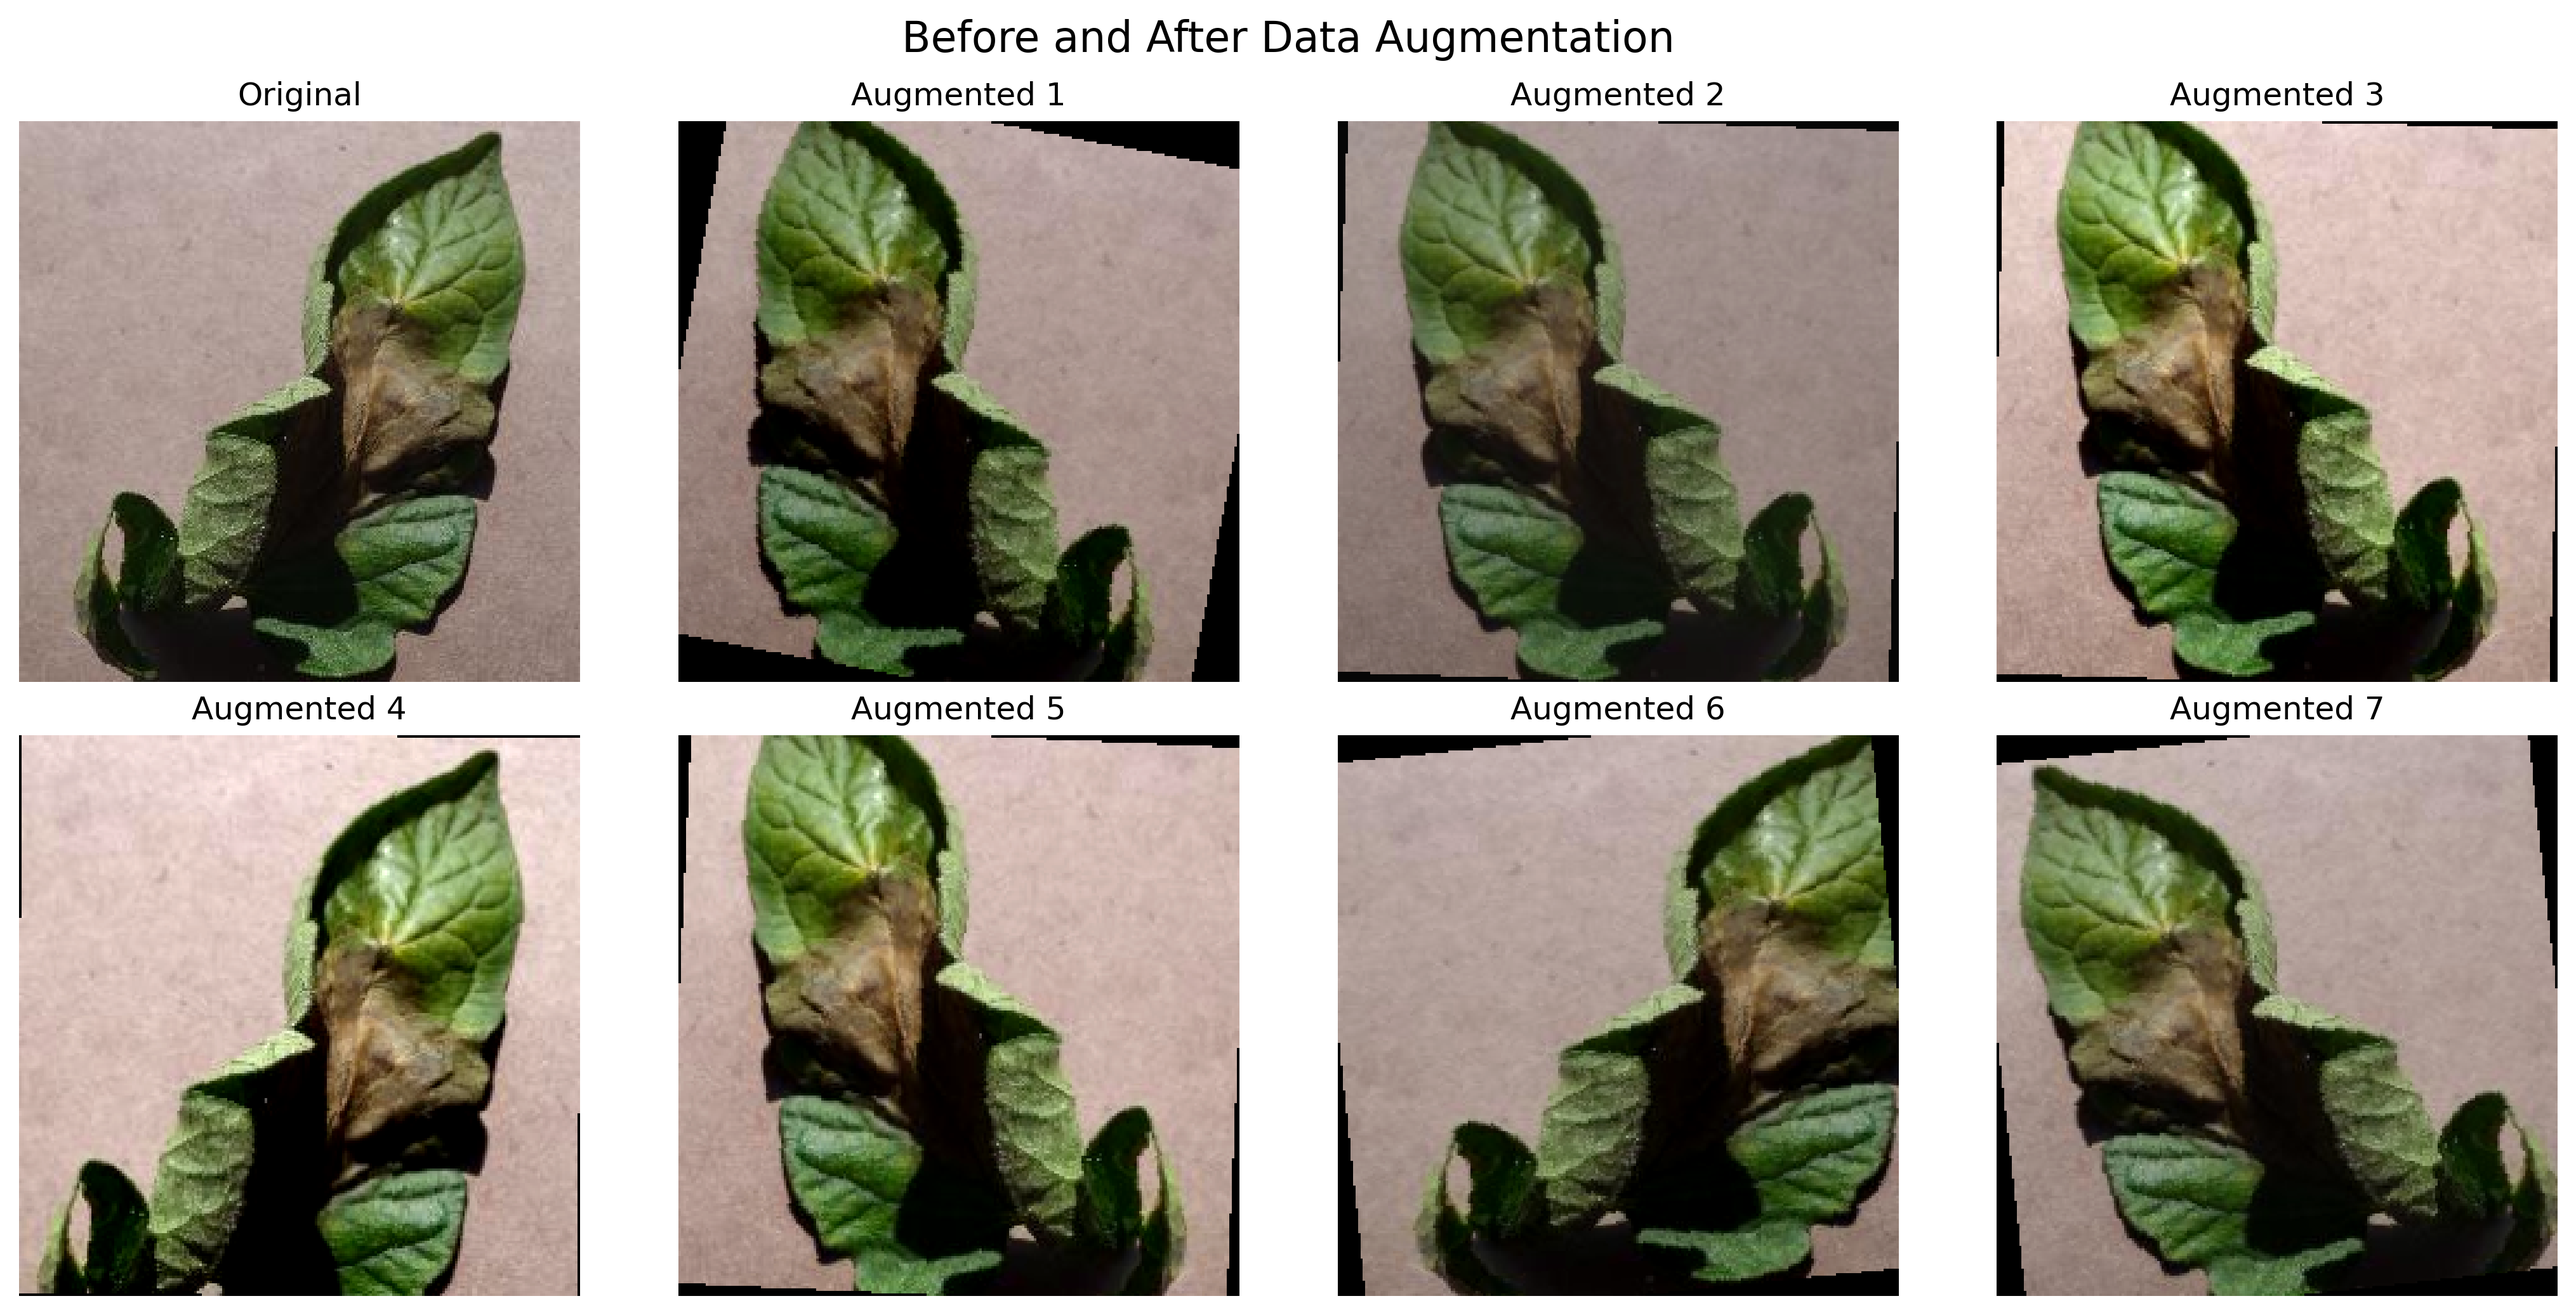
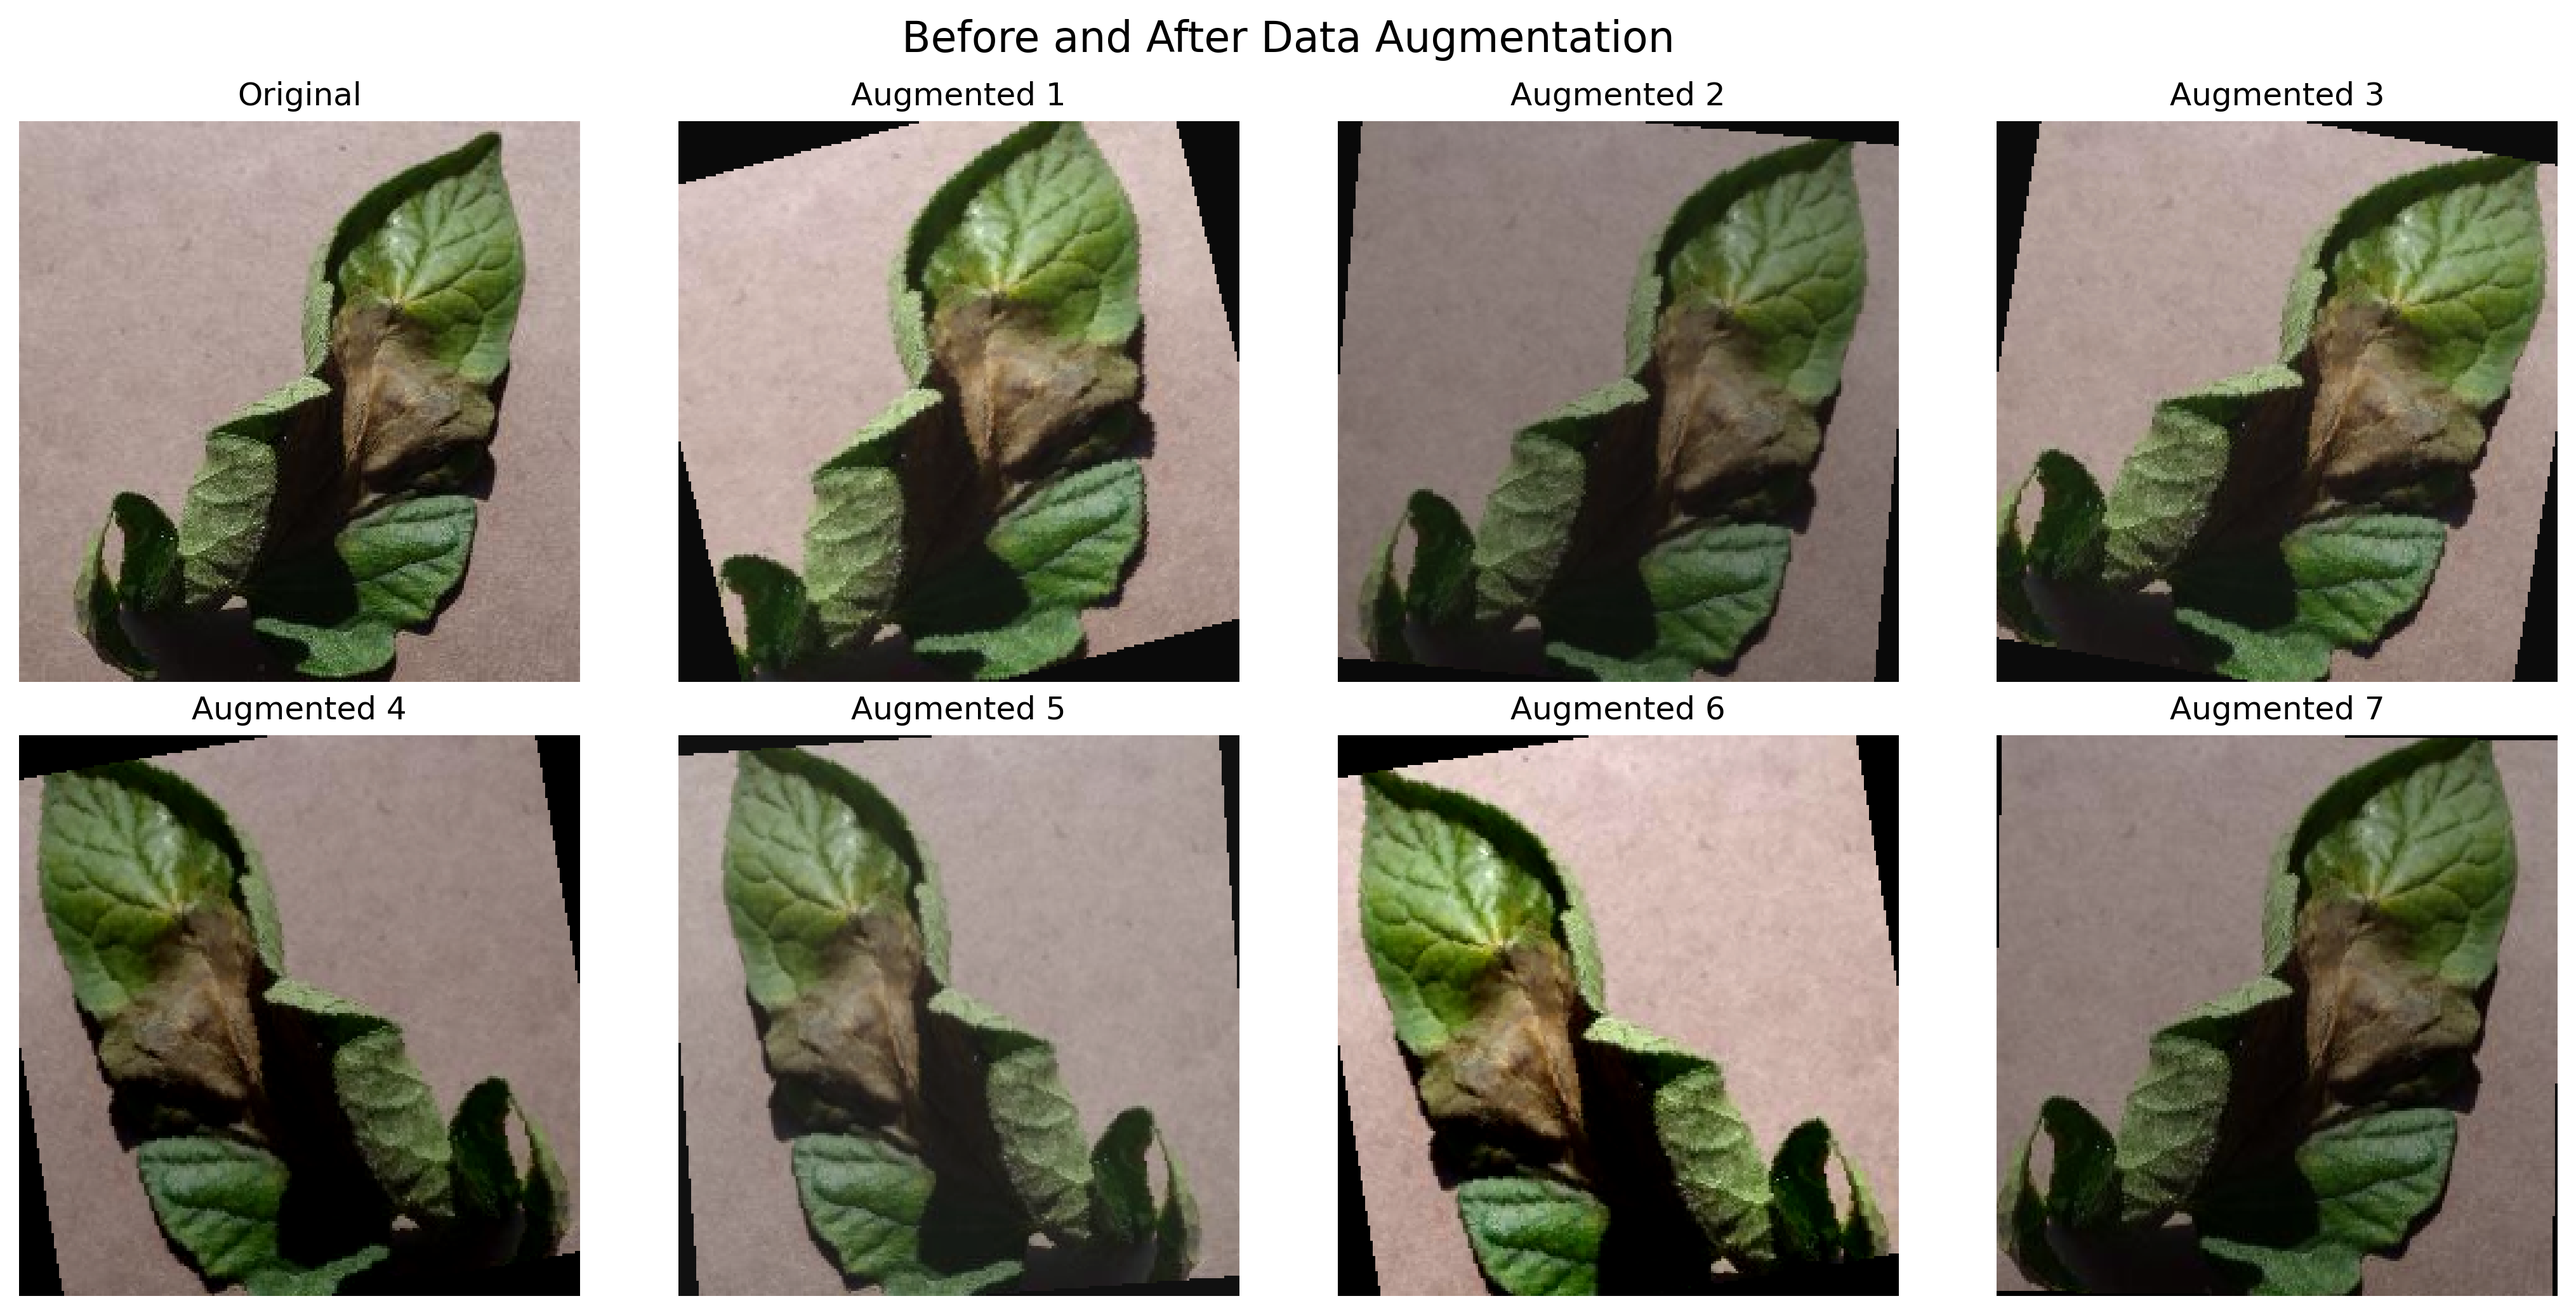
phase 2

diff --git a/src/evaluate.py b/src/evaluate.py
@@ -1,0 +1,139 @@
+import os
+import torch
+import matplotlib.pyplot as plt
+
+from torchvision import models
+from sklearn.metrics import (
+    confusion_matrix,
+    classification_report,
+    ConfusionMatrixDisplay
+)
+
+from dataset import val_loader, CLASS_NAMES
+
+# Device
+device = torch.device(
+    "cuda" if torch.cuda.is_available() else "cpu"
+)
+
+# Load ResNet18 architecture
+model = models.resnet18(weights=None)
+
+# Replace final layer
+model.fc = torch.nn.Linear(
+    model.fc.in_features,
+    len(CLASS_NAMES)
+)
+
+# Load best saved weights
+model.load_state_dict(
+    torch.load("models/resnet18_best.pth", map_location=device)
+)
+
+model = model.to(device)
+model.eval()
+
+all_preds = []
+all_labels = []
+
+# Create folders
+os.makedirs("reports", exist_ok=True)
+os.makedirs("reports/errors", exist_ok=True)
+
+error_count = 0
+
+with torch.no_grad():
+
+    for images, labels in val_loader:
+
+        images = images.to(device)
+        labels = labels.to(device)
+
+        outputs = model(images)
+
+        _, preds = torch.max(outputs, 1)
+
+        all_preds.extend(preds.cpu().numpy())
+        all_labels.extend(labels.cpu().numpy())
+
+        # Save misclassified samples
+        for i in range(len(images)):
+
+            if preds[i].item() != labels[i].item():
+
+                if error_count < 10:
+
+                    img = images[i].cpu()
+
+                    # Denormalize
+                    mean = torch.tensor(
+                        [0.485, 0.456, 0.406]
+                    ).view(3, 1, 1)
+
+                    std = torch.tensor(
+                        [0.229, 0.224, 0.225]
+                    ).view(3, 1, 1)
+
+                    img = img * std + mean
+                    img = img.permute(1, 2, 0).numpy()
+
+                    plt.figure(figsize=(4, 4))
+                    plt.imshow(img)
+                    plt.axis("off")
+
+                    true_label = CLASS_NAMES[
+                        labels[i].item()
+                    ]
+
+                    pred_label = CLASS_NAMES[
+                        preds[i].item()
+                    ]
+
+                    plt.title(
+                        f"True: {true_label}\nPred: {pred_label}"
+                    )
+
+                    plt.savefig(
+                        f"reports/errors/error_{error_count}.png",
+                        bbox_inches="tight"
+                    )
+
+                    plt.close()
+
+                    error_count += 1
+
+# Confusion Matrix
+cm = confusion_matrix(
+    all_labels,
+    all_preds
+)
+
+disp = ConfusionMatrixDisplay(
+    confusion_matrix=cm,
+    display_labels=CLASS_NAMES
+)
+
+fig, ax = plt.subplots(figsize=(8, 6))
+disp.plot(ax=ax, cmap="Blues")
+
+plt.savefig(
+    "reports/confusion_matrix.png",
+    bbox_inches="tight"
+)
+
+plt.close()
+
+# Classification Report
+report = classification_report(
+    all_labels,
+    all_preds,
+    target_names=CLASS_NAMES
+)
+
+print(report)
+
+with open(
+    "reports/classification_report.txt",
+    "w"
+) as f:
+    f.write(report)

diff --git a/src/predict.py b/src/predict.py
@@ -1,0 +1,82 @@
+
+
+import argparse
+import json
+import torch
+from PIL import Image
+from torchvision import models
+
+from src.aug_transform import val_transform
+
+
+def load_model(model_path, num_classes):
+
+    model = models.resnet18(weights=None)
+
+    model.fc = torch.nn.Linear(
+        model.fc.in_features,
+        num_classes
+    )
+
+    model.load_state_dict(
+        torch.load(
+            model_path,
+            map_location="cpu"
+        )
+    )
+
+    model.eval()
+
+    return model
+
+
+def predict(image_path, model, class_names):
+
+    image = Image.open(image_path).convert("RGB")
+
+    image = val_transform(image)
+
+    image = image.unsqueeze(0)
+
+    with torch.no_grad():
+
+        output = model(image)
+
+        probs = torch.softmax(output, dim=1)
+
+    confidence, idx = probs.max(1)
+
+    return (
+        class_names[idx.item()],
+        confidence.item()
+    )
+
+
+if __name__ == "__main__":
+
+    parser = argparse.ArgumentParser()
+
+    parser.add_argument(
+        "--image",
+        required=True,
+        help="Path to image"
+    )
+
+    args = parser.parse_args()
+
+    with open("notebooks/class_names.json") as f:
+        class_names = json.load(f)
+
+    model = load_model(
+        "models/resnet18_best.pth",
+        len(class_names)
+    )
+
+    label, confidence = predict(
+        args.image,
+        model,
+        class_names
+    )
+
+    print(f"Prediction : {label}")
+    print(f"Confidence : {confidence*100:.2f}%")

diff --git a/src/export_model.py b/src/export_model.py
@@ -1,0 +1,41 @@
+
+
+import torch
+from torchvision import models
+
+CLASS_NAMES = [
+    "early_blight",
+    "healthy",
+    "late_blight",
+    "leaf_mold"
+]
+
+model = models.resnet18(weights=None)
+
+model.fc = torch.nn.Linear(
+    model.fc.in_features,
+    len(CLASS_NAMES)
+)
+
+model.load_state_dict(
+    torch.load(
+        "models/resnet18_best.pth",
+        map_location="cpu"
+    )
+)
+
+
+model.eval()
+
+example_input = torch.randn(1, 3, 224, 224)
+
+scripted_model = torch.jit.trace(
+    model,
+    example_input
+)
+
+scripted_model.save(
+    "models/resnet18_scripted.pt"
+)
+
+print("TorchScript model exported successfully!")

diff --git a/reports/model_spec.md b/reports/model_spec.md
@@ -1,0 +1,42 @@
+# Smoke Test Results
+
+## Objective
+
+Verify that the exported ResNet18 model can successfully perform inference on unseen validation images.
+
+## Model Specification
+
+## Model Information
+
+- Architecture: ResNet18
+- Framework: PyTorch
+- Export Format: TorchScript (`resnet18_scripted.pt`)
+
+## Input Specification
+
+- Image Size: 224 × 224 pixels
+- Channels: RGB (3 channels)
+
+## Normalization
+
+```python
+mean = [0.485, 0.456, 0.406]
+std  = [0.229, 0.224, 0.225]
+
+## Test Commands and Results
+
+| Image Path | Actual Class | Predicted Class | Confidence |
+|------------|--------------|----------------|------------|
+| data/val/healthy/test2.JPG | healthy | healthy | 99.xx% |
+| data/val/leaf_mold/test3.JPG | leaf_mold | leaf_mold | 99.86% |
+| data/val/early_blight/test4.JPG | early_blight | early_blight | 99.99% |
+
+## Summary
+
+* Total test images: 3
+* Correct predictions: 3
+* Smoke test accuracy: 100%
+
+## Conclusion
+
+The exported ResNet18 model successfully performed inference on all three held-out validation images. The CLI prediction script correctly returned the predicted class and confidence score for each image. All three samples were classified correctly with high confidence, confirming that the model export (`resnet18_scripted.pt`) and inference pipeline are functioning as expected.
